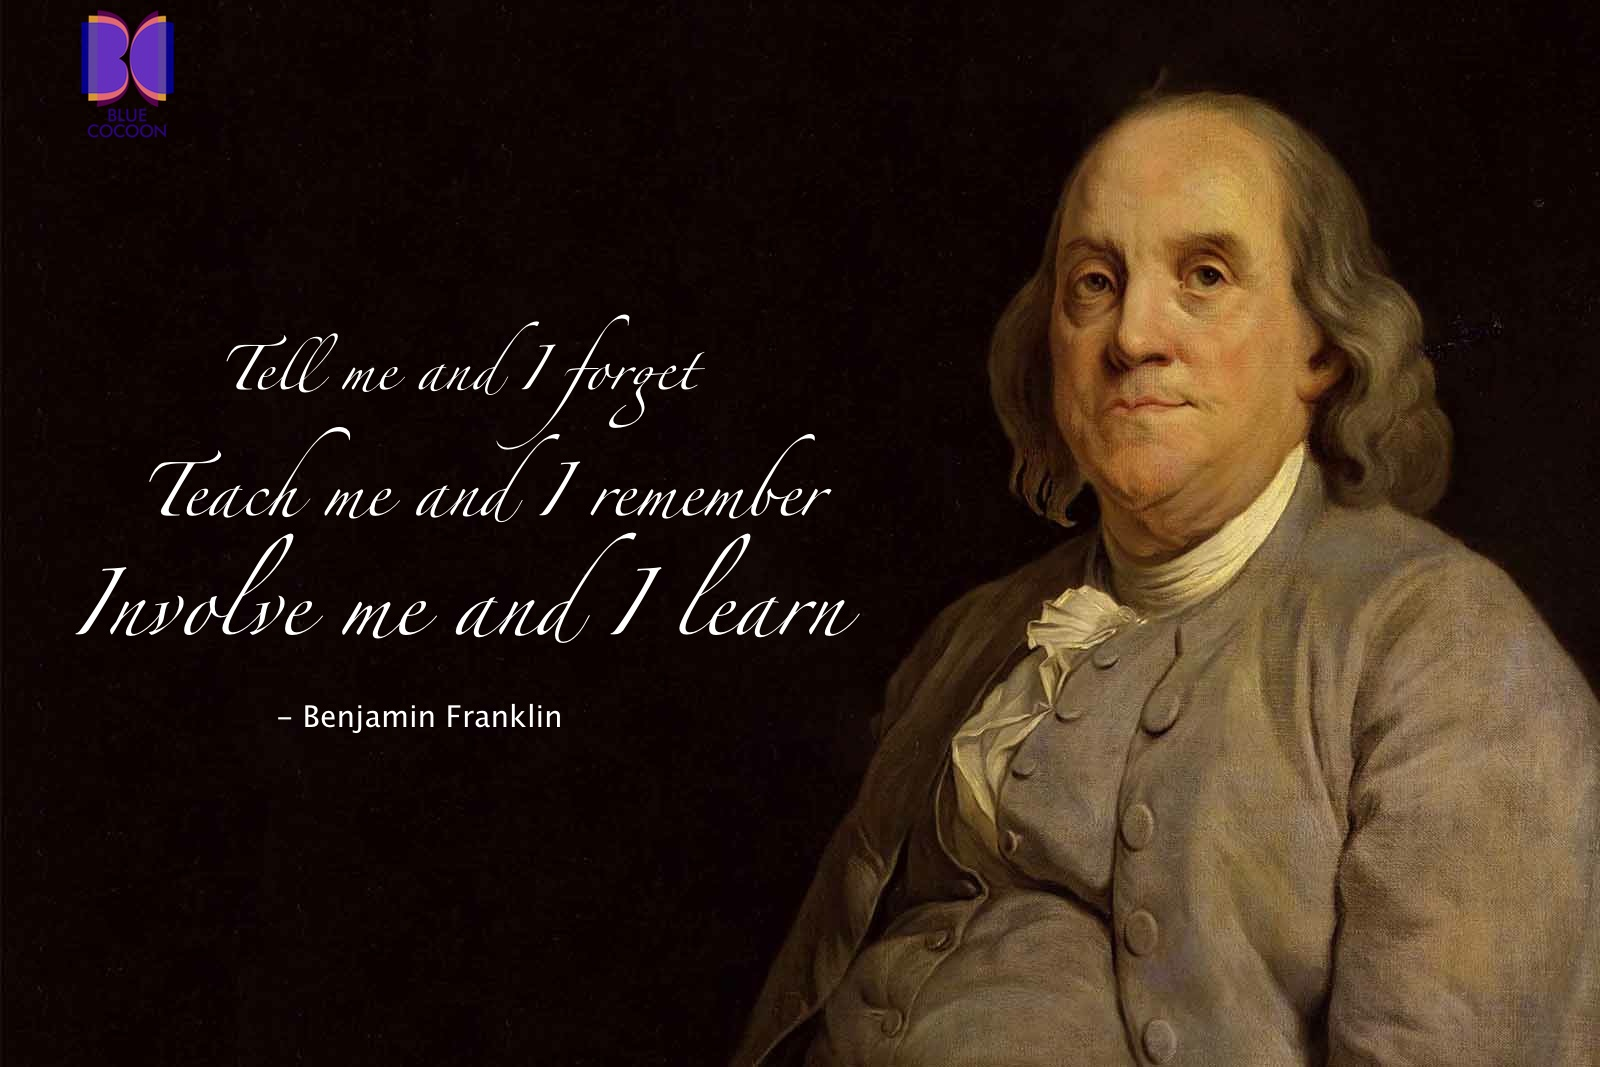
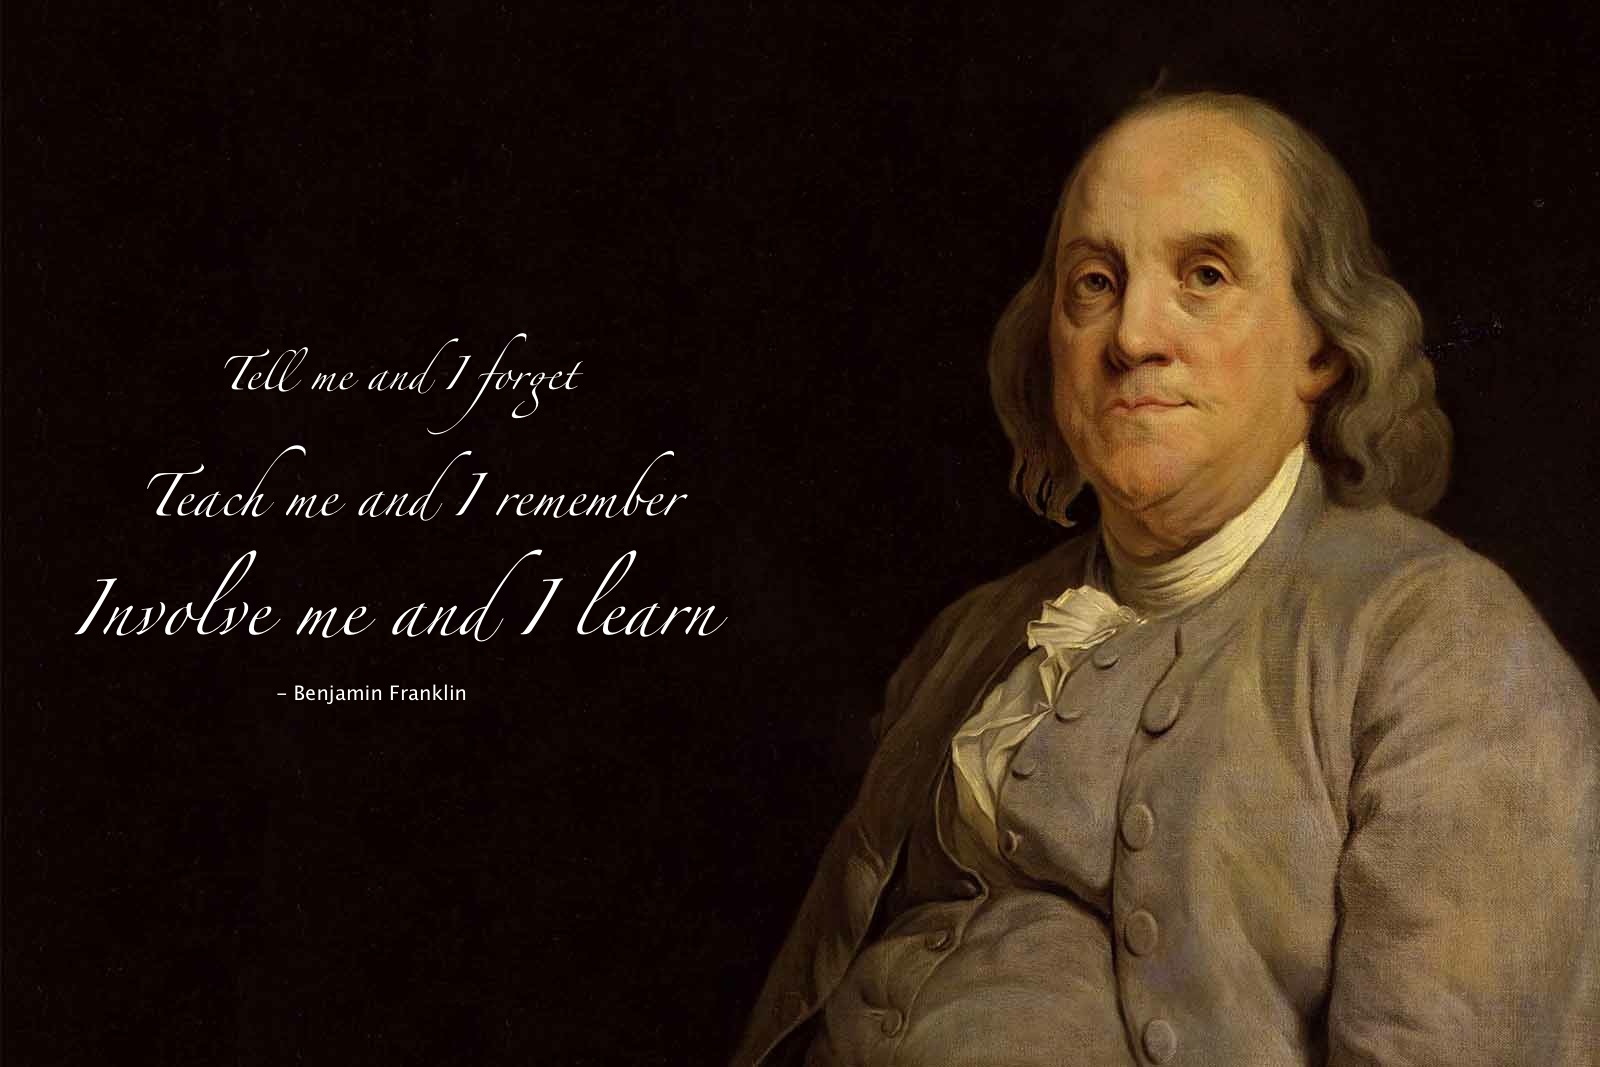
intro section height and intro background image text font modification.

diff --git a/index.html b/index.html
@@ -56,6 +56,8 @@
 								<img src="img/thumb.jpg" alt="Your Name" class="img-circle">
 							</div>
 							<div class="span10 intro">
+								<br />
+								<br /><br /><br />
 								<!-- <button class="btn-inverse" data-section="2">
 									Learn <span>More</span>
 									<i class="icon-circle-arrow-down"></i>
